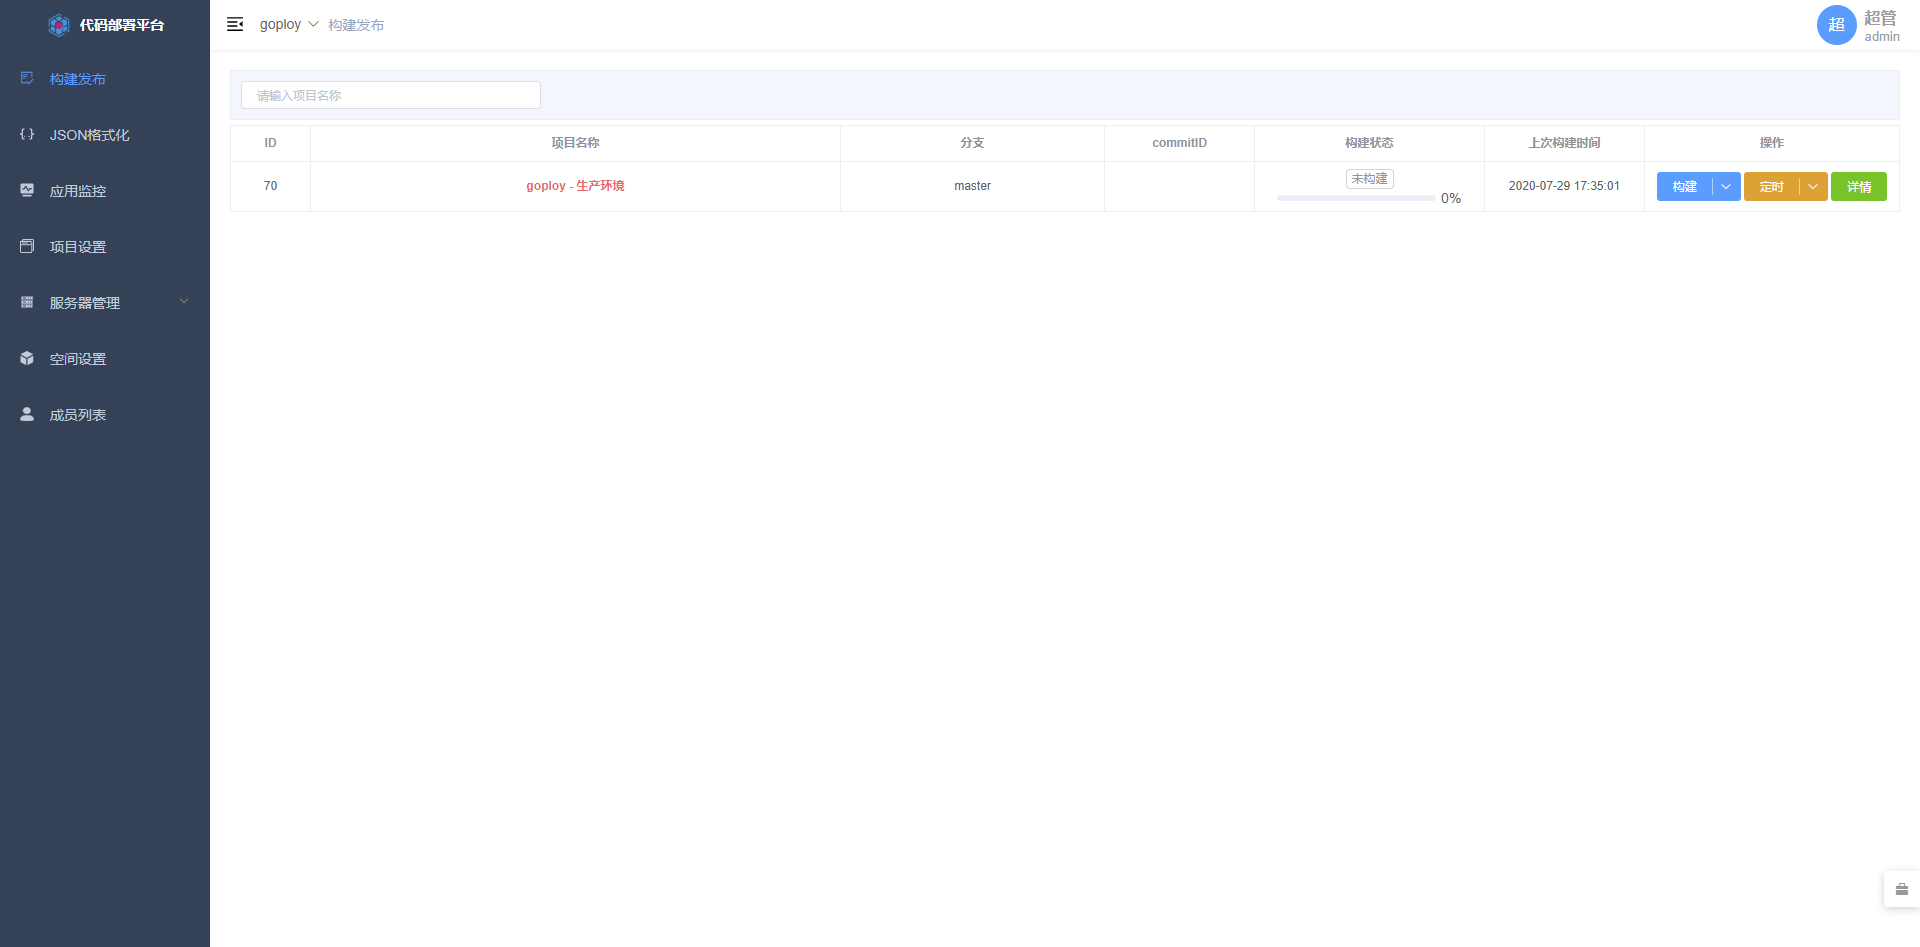
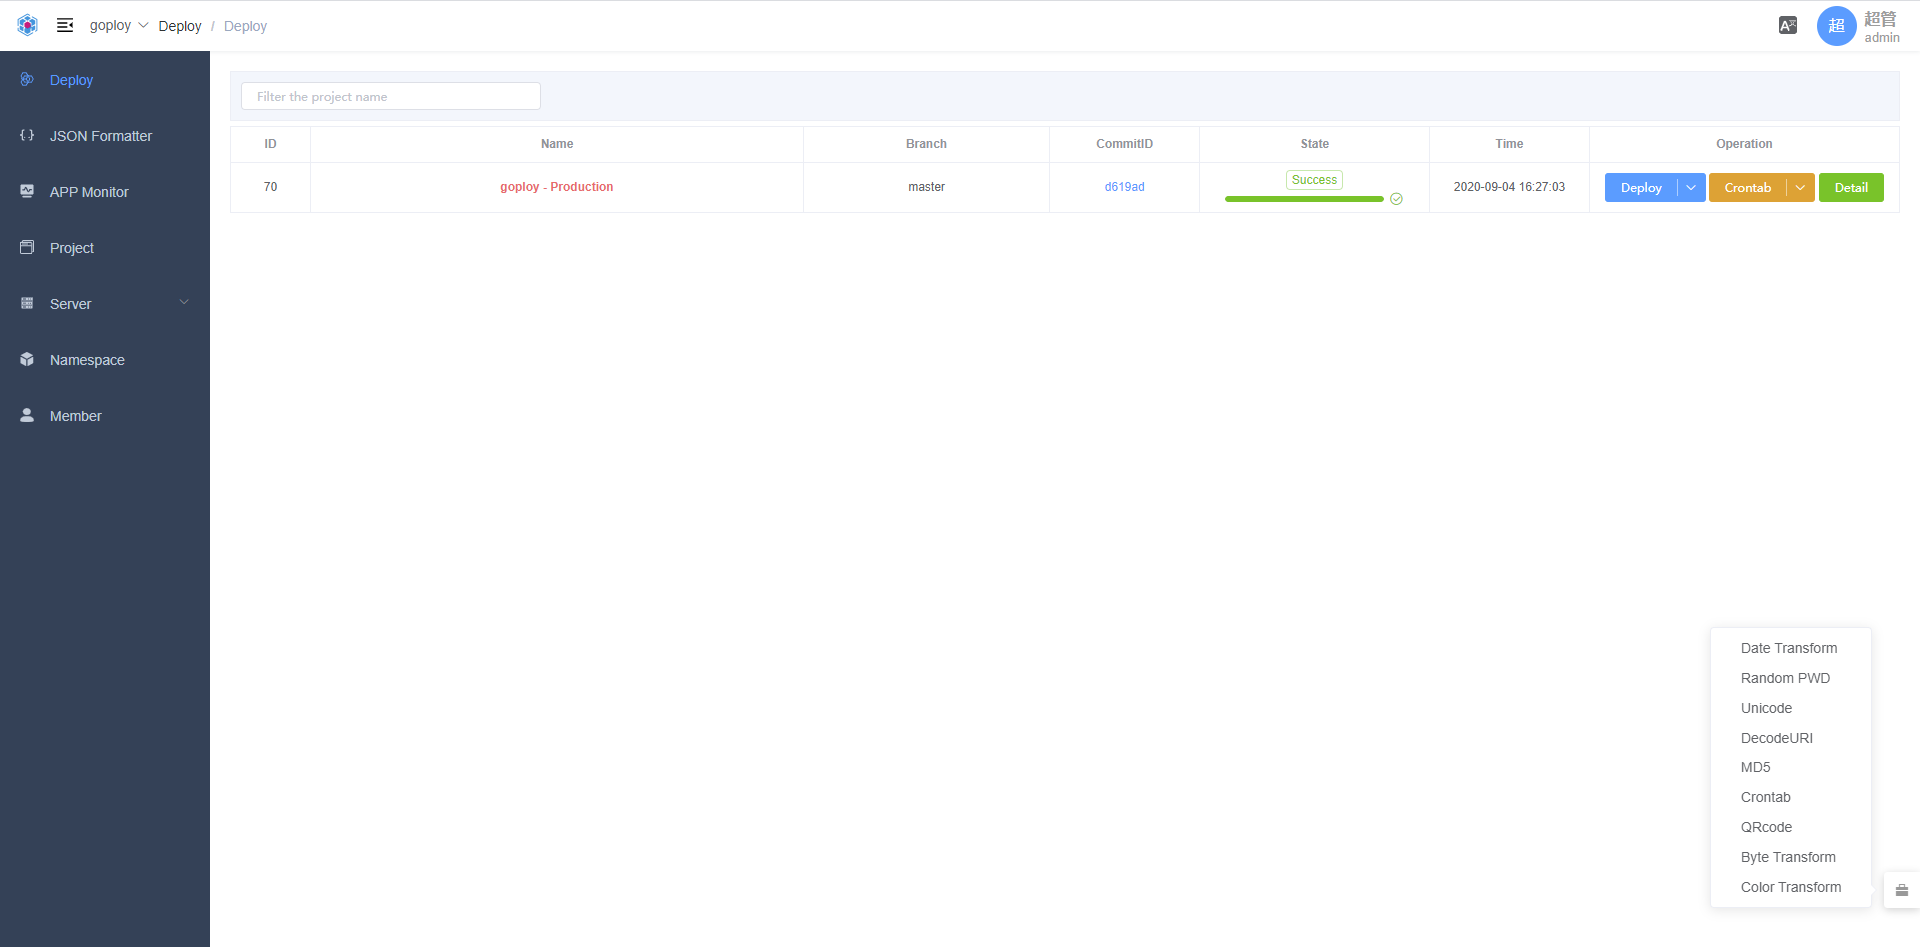
U English readme

diff --git a/README.md b/README.md
@@ -13,83 +13,83 @@
     <img src="https://img.shields.io/badge/License-MIT-yellow.svg">
   </a>
 </p>
+English | [简体中文](./README.zh-CN.md)
 
-名字来源：go + deploy
+Name: go + deploy
 
-一个web部署系统工具!
+A web deployment system tool!
 
-支持各种代码发布、回滚，可以通过web来一键完成！
+Support all kinds of code release and rollback, which can be done through the web with one click!
 
-完整的安装指引，上手无难度！
+Complete installation instructions, no difficulty in getting started!
 
-> 重要提示: master 分支在开发过程中可能处于 不稳定或者不可用状态 。 请通过releases 而非 master 去获取稳定的二进制文件。
+> Important note: The master branch may be in an unstable or unavailable state during the development process. Please use releases instead of master to obtain stable binary files.
 
-[DEMO](http://49.234.66.193:3000) admin:admin!@# (不一定能打开，看心情)
+[DEMO](http://49.234.66.193:3000) admin:admin!@# (It may not be able to open, depending on the mood)
 
-[帮助文档](https://zhenorzz.gitee.io/goploy)
+[Document](https://zhenorzz.gitee.io/goploy)
 
-## 内容列表
+## Content
 
-- [背景](#背景)
-- [安装](#安装)
-- [使用](#使用)
-- [原理图](#原理图)
-- [反向代理](#反向代理)
-- [后端开发说明](#后端开发说明)
-- [前端开发说明](#前端开发说明)
-- [相关仓库](#相关仓库)
-- [如何贡献](#如何贡献)
-- [使用许可](#使用许可)
+- [Background](#Background)
+- [Install](#Install)
+- [Use](#Use)
+- [Preview](#Preview)
+- [Diagram](#Diagram)
+- [Reverse proxy](#Reverse proxy)
+- [Backend development instructions](#Backend development instructions)
+- [Frontend development instructions](#Frontend development instructions)
+- [Repository](#Repository)
+- [Contribute](#Contribute)
+- [License](#License)
 
-## 背景
-大部分流行的发布工具功能虽然强大，但是配置较为麻烦，上手难度大，中小型项目难以使用。
+## Background
+Although most popular publishing tools are powerful, they are cumbersome to configure, difficult to get started, and difficult to use for projects.
 
-## 安装
-1. 安装mysql
-2. 下载最新的release
+## Install
+1. Install mysql
+2. Download the latest release
 
-## 使用
-1. 运行./goploy or goploy.exe or goploy.mac (运行不了可能需要 chmod a+x, 再不行就发issue或加群)
-2. 根据安装指引填入相关的配置
-3. web http://ip:port  (账号:密码 admin:admin!@#)
+## Use
+1. Run ./goploy or goploy.exe or goploy.mac
+2. Follow the installation guide
+3. web http://ip:port  (Account:Password admin:admin!@#)
 
-## 预览
-![预览](./preview.png)
+## Preview
+![Preview](./preview.png)
 
-## 原理图
-![原理图](./goploy.png)
+## Diagram
+![Diagram](./goploy.png)
 
-## 反向代理
-nginx反向代理记得升级ws协议
+## Reverse proxy
+Nginx reverse proxy remember to upgrade the ws protocol
 ```nginx
 proxy_set_header Upgrade         $http_upgrade;
 proxy_set_header Connection      "upgrade";
 ```
 
-## 后端开发说明
-1. 安装go，必须是1.13以上
-2. 项目使用go mod管理
-3. 运行go run main.go
-4. 或者使用gin（可以特更新代码，改变就生效）
+## Backend development instructions
+1. Install go >= 1.13
+2. go mod required
+3. go run main.go
+4. use gin (hot reload)
 
-## 前端开发说明
+## Frontend development instructions
 1. cd web
-2. 修改.env.development
+2. vi .env.development
 3. npm run dev
 
-## 相关仓库
+## Repository
 
 - [gin](https://github.com/codegangsta/gin) - GO hot reload。
-- [element-ui](https://github.com/ElemeFE/element) - 前端UI样式。
+- [element-ui](https://github.com/ElemeFE/element) - UI。
 
-## 如何贡献
+## Contribute
 
-非常欢迎你的加入! （QQ群903750786）
+[Issue](https://github.com/zhenorzz/goploy/issues/new) 
 
-[提一个Issue](https://github.com/zhenorzz/goploy/issues/new) 
+Create a pull request.
 
-提交一个 Pull Request.
-
-## 使用许可
+## License
 
 [MIT](LICENSE) © zhenorzz

diff --git a/README.zh-CN.md b/README.zh-CN.md
@@ -1,0 +1,97 @@
+<p align=center>
+    <img src="./banner.png" alt="logo" title="logo" />
+</p>
+
+<p align="center">
+  <a href="#">
+      <img src="https://img.shields.io/badge/readme%20style-standard-brightgreen.svg">
+  </a>
+  <a href="#">
+      <img src="https://img.shields.io/badge/give%20me-a%20star-green.svg">
+    </a>
+  <a href="LICENSE">
+    <img src="https://img.shields.io/badge/License-MIT-yellow.svg">
+  </a>
+</p>
+[English](./README.md) | 简体中文
+
+名字来源：go + deploy
+
+一个web部署系统工具!
+
+支持各种代码发布、回滚，可以通过web来一键完成！
+
+完整的安装指引，上手无难度！
+
+> 重要提示: master 分支在开发过程中可能处于不稳定或者不可用状态，请通过releases而非master去获取稳定的二进制文件。
+
+[DEMO](http://49.234.66.193:3000) admin:admin!@# (不一定能打开，看心情)
+
+[帮助文档](https://zhenorzz.gitee.io/goploy)
+
+## 内容列表
+
+- [背景](#背景)
+- [安装](#安装)
+- [使用](#使用)
+- [预览](#预览)
+- [原理图](#原理图)
+- [反向代理](#反向代理)
+- [后端开发说明](#后端开发说明)
+- [前端开发说明](#前端开发说明)
+- [相关仓库](#相关仓库)
+- [如何贡献](#如何贡献)
+- [使用许可](#使用许可)
+
+## 背景
+大部分流行的发布工具功能虽然强大，但是配置较为麻烦，上手难度大，中小型项目难以使用。
+
+## 安装
+1. 安装mysql
+2. 下载最新的release
+
+## 使用
+1. 运行./goploy or goploy.exe or goploy.mac (运行不了可能需要 chmod a+x, 再不行就发issue或加群)
+2. 根据安装指引填入相关的配置
+3. web http://ip:port  (账号:密码 admin:admin!@#)
+
+## 预览
+![预览](./preview_zh.png)
+
+## 原理图
+![原理图](./goploy.png)
+
+## 反向代理
+nginx反向代理记得升级ws协议
+```nginx
+proxy_set_header Upgrade         $http_upgrade;
+proxy_set_header Connection      "upgrade";
+```
+
+## 后端开发说明
+1. 安装go，必须是1.13以上
+2. 项目使用go mod管理
+3. 运行go run main.go
+4. 或者使用gin（可以特更新代码，改变就生效）
+
+## 前端开发说明
+1. cd web
+2. 修改.env.development
+3. npm run dev
+
+## 相关仓库
+
+- [gin](https://github.com/codegangsta/gin) - GO hot reload。
+- [element-ui](https://github.com/ElemeFE/element) - 前端UI样式。
+
+## 如何贡献
+
+非常欢迎你的加入! （QQ群903750786）
+
+[提一个Issue](https://github.com/zhenorzz/goploy/issues/new) 
+
+提交一个 Pull Request.
+
+## 使用许可
+
+[MIT](LICENSE) © zhenorzz

diff --git a/docs/changelog/index.md b/docs/changelog/index.md
@@ -1,14 +1,27 @@
 # 更新日志
 
+## 1.0.2
+
+*2020-09-04*
+
+### New features
+- I18n
+
+### Bug fixes
+- Fix SQL error
+
+### Optimization
+- project path 
+  - change project_name to project_id
+
+
 ## 1.0.1
 
 *2020-08-21*
 
-### 新特性
+### New features
 - namespace
-  - 新增空间概念
 
-### 优化
-
-- 自动构建
-  - 更改project_name为project_id作为触发webhook的标识
+### Optimization
+- Auto deploy
+  - change project_name to project_id
